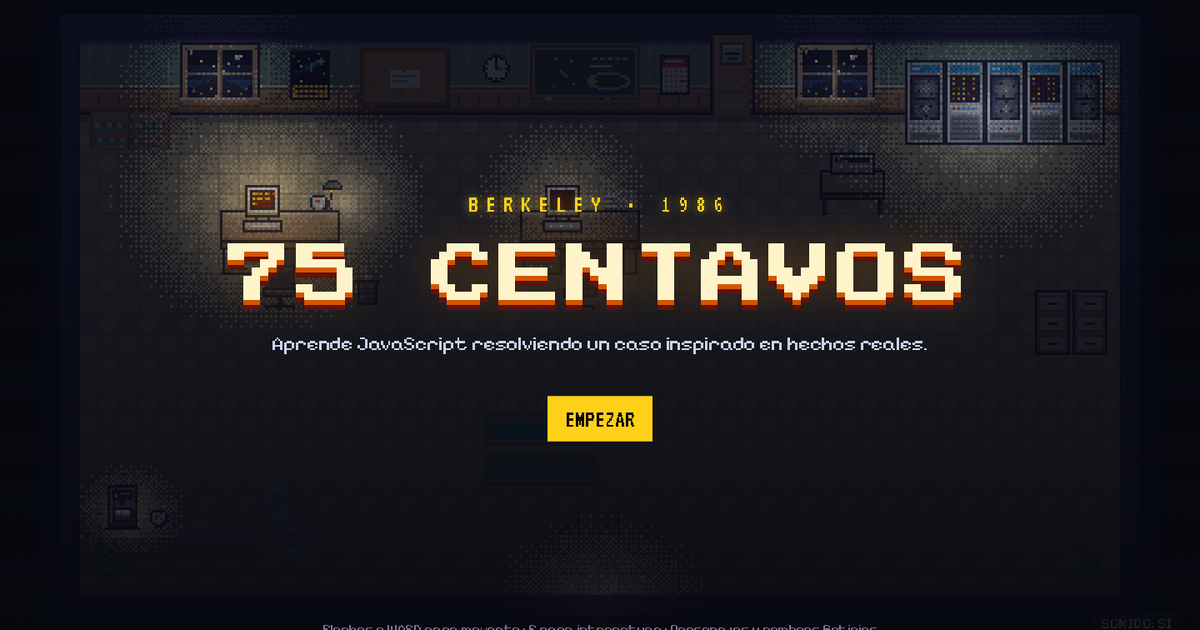
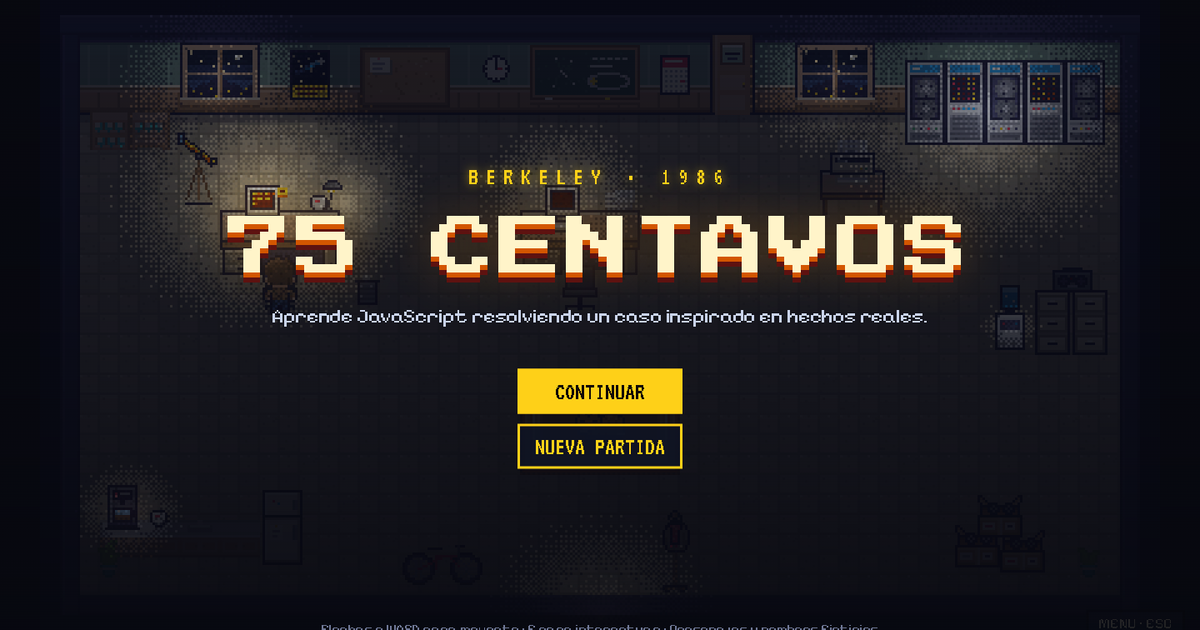
chore: dominio de produccion en Open Graph, canonical y sitemap

diff --git a/index.html b/index.html
@@ -12,11 +12,13 @@
     <meta property="og:type" content="website" />
     <meta property="og:title" content="75 Centavos — juego para aprender JavaScript desde cero" />
     <meta property="og:description" content="Berkeley, 1986. La contabilidad no cuadra por 75 centavos. Aprende JavaScript real programando para atrapar a un intruso." />
-    <meta property="og:image" content="/og.png" />
+    <meta property="og:image" content="https://75-centavos.vercel.app/og.png" />
+    <meta property="og:url" content="https://75-centavos.vercel.app/" />
+    <link rel="canonical" href="https://75-centavos.vercel.app/" />
     <meta property="og:image:width" content="1200" />
     <meta property="og:image:height" content="630" />
     <meta name="twitter:card" content="summary_large_image" />
-    <meta name="twitter:image" content="/og.png" />
+    <meta name="twitter:image" content="https://75-centavos.vercel.app/og.png" />
     <link rel="preconnect" href="https://fonts.googleapis.com" />
     <link rel="preconnect" href="https://fonts.gstatic.com" crossorigin />
     <link href="https://fonts.googleapis.com/css2?family=Pixelify+Sans:wght@400;600&family=Press+Start+2P&family=VT323&display=swap" rel="stylesheet" />
